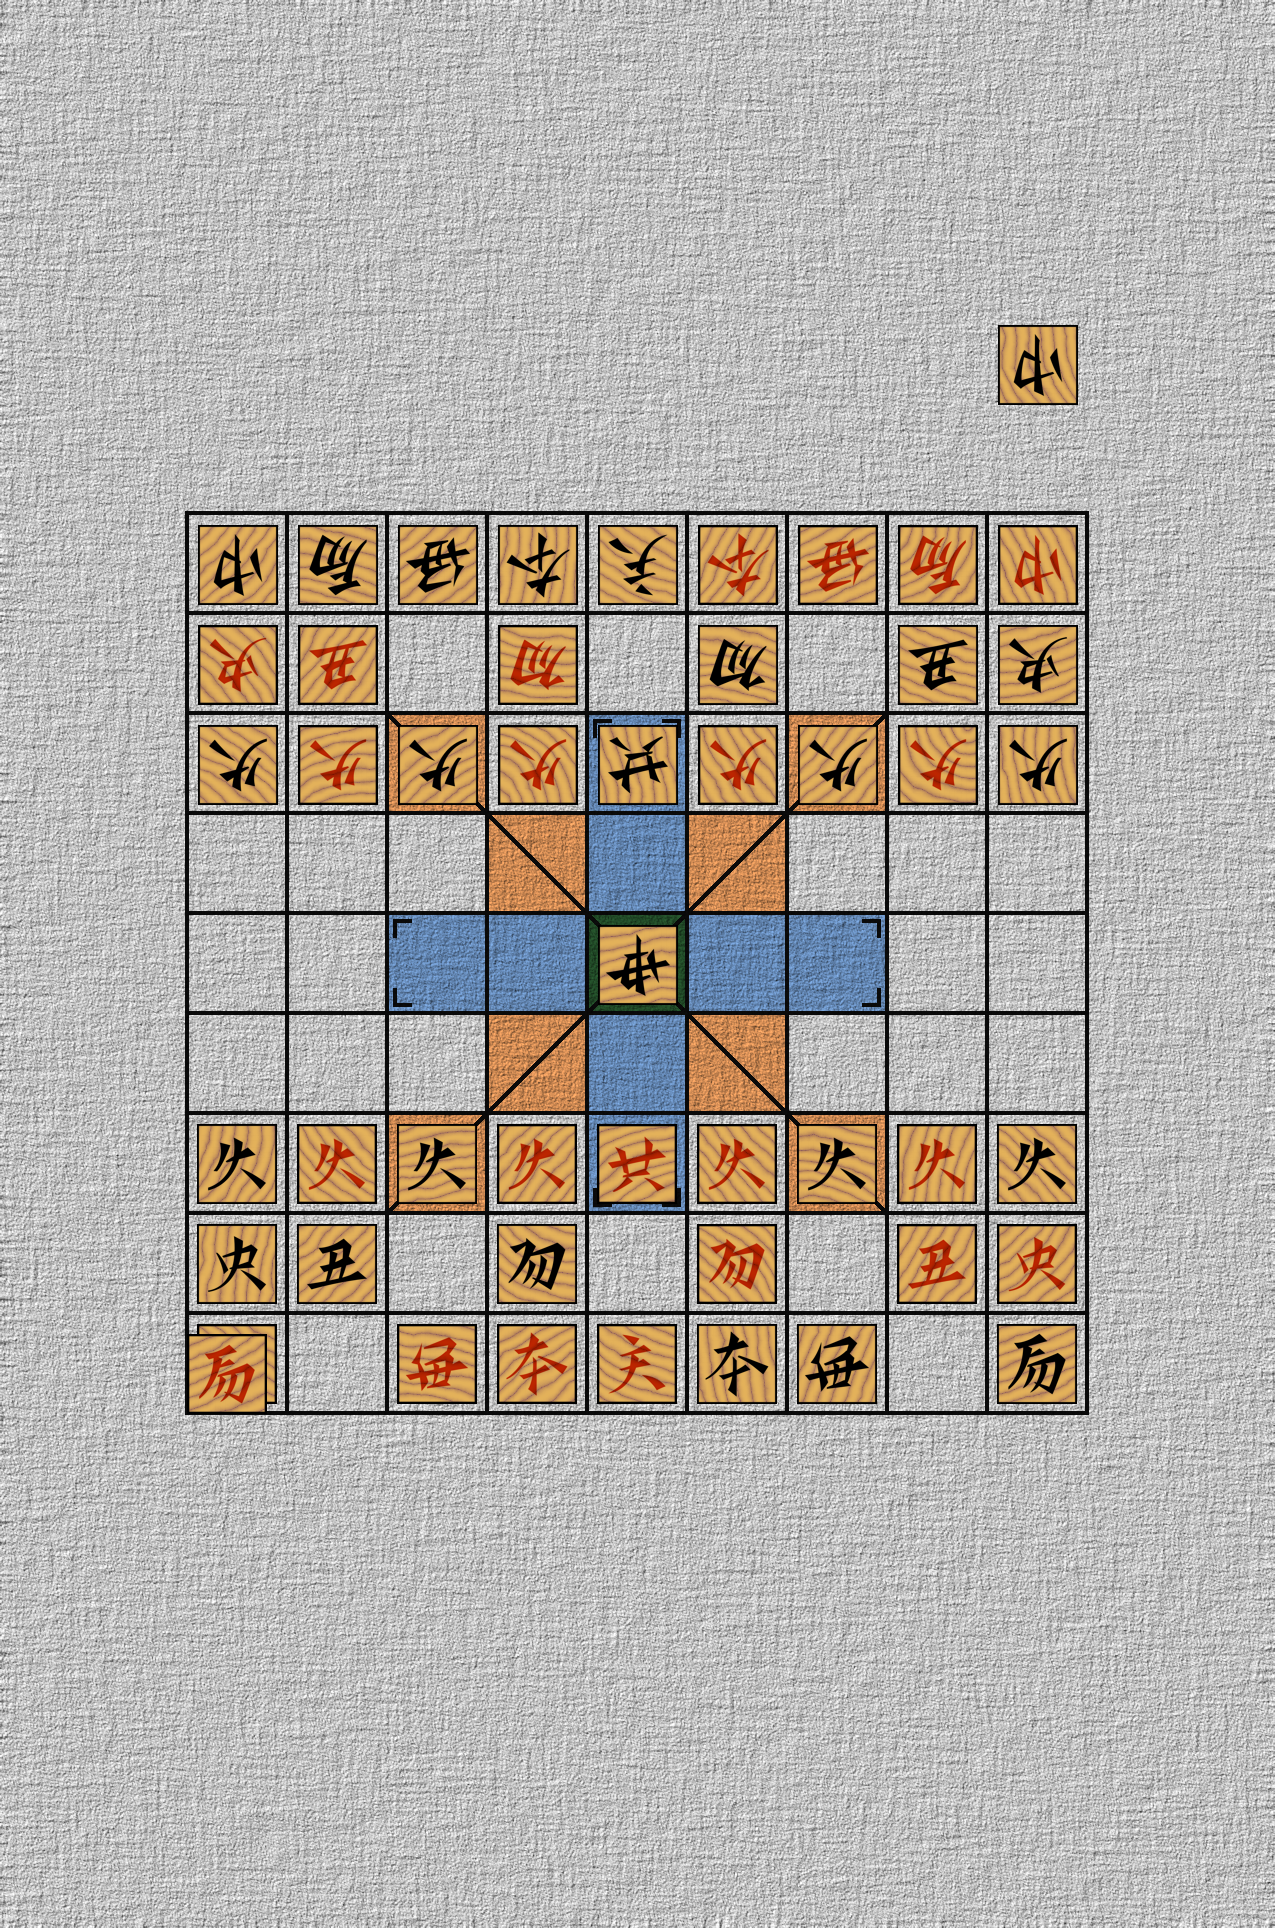
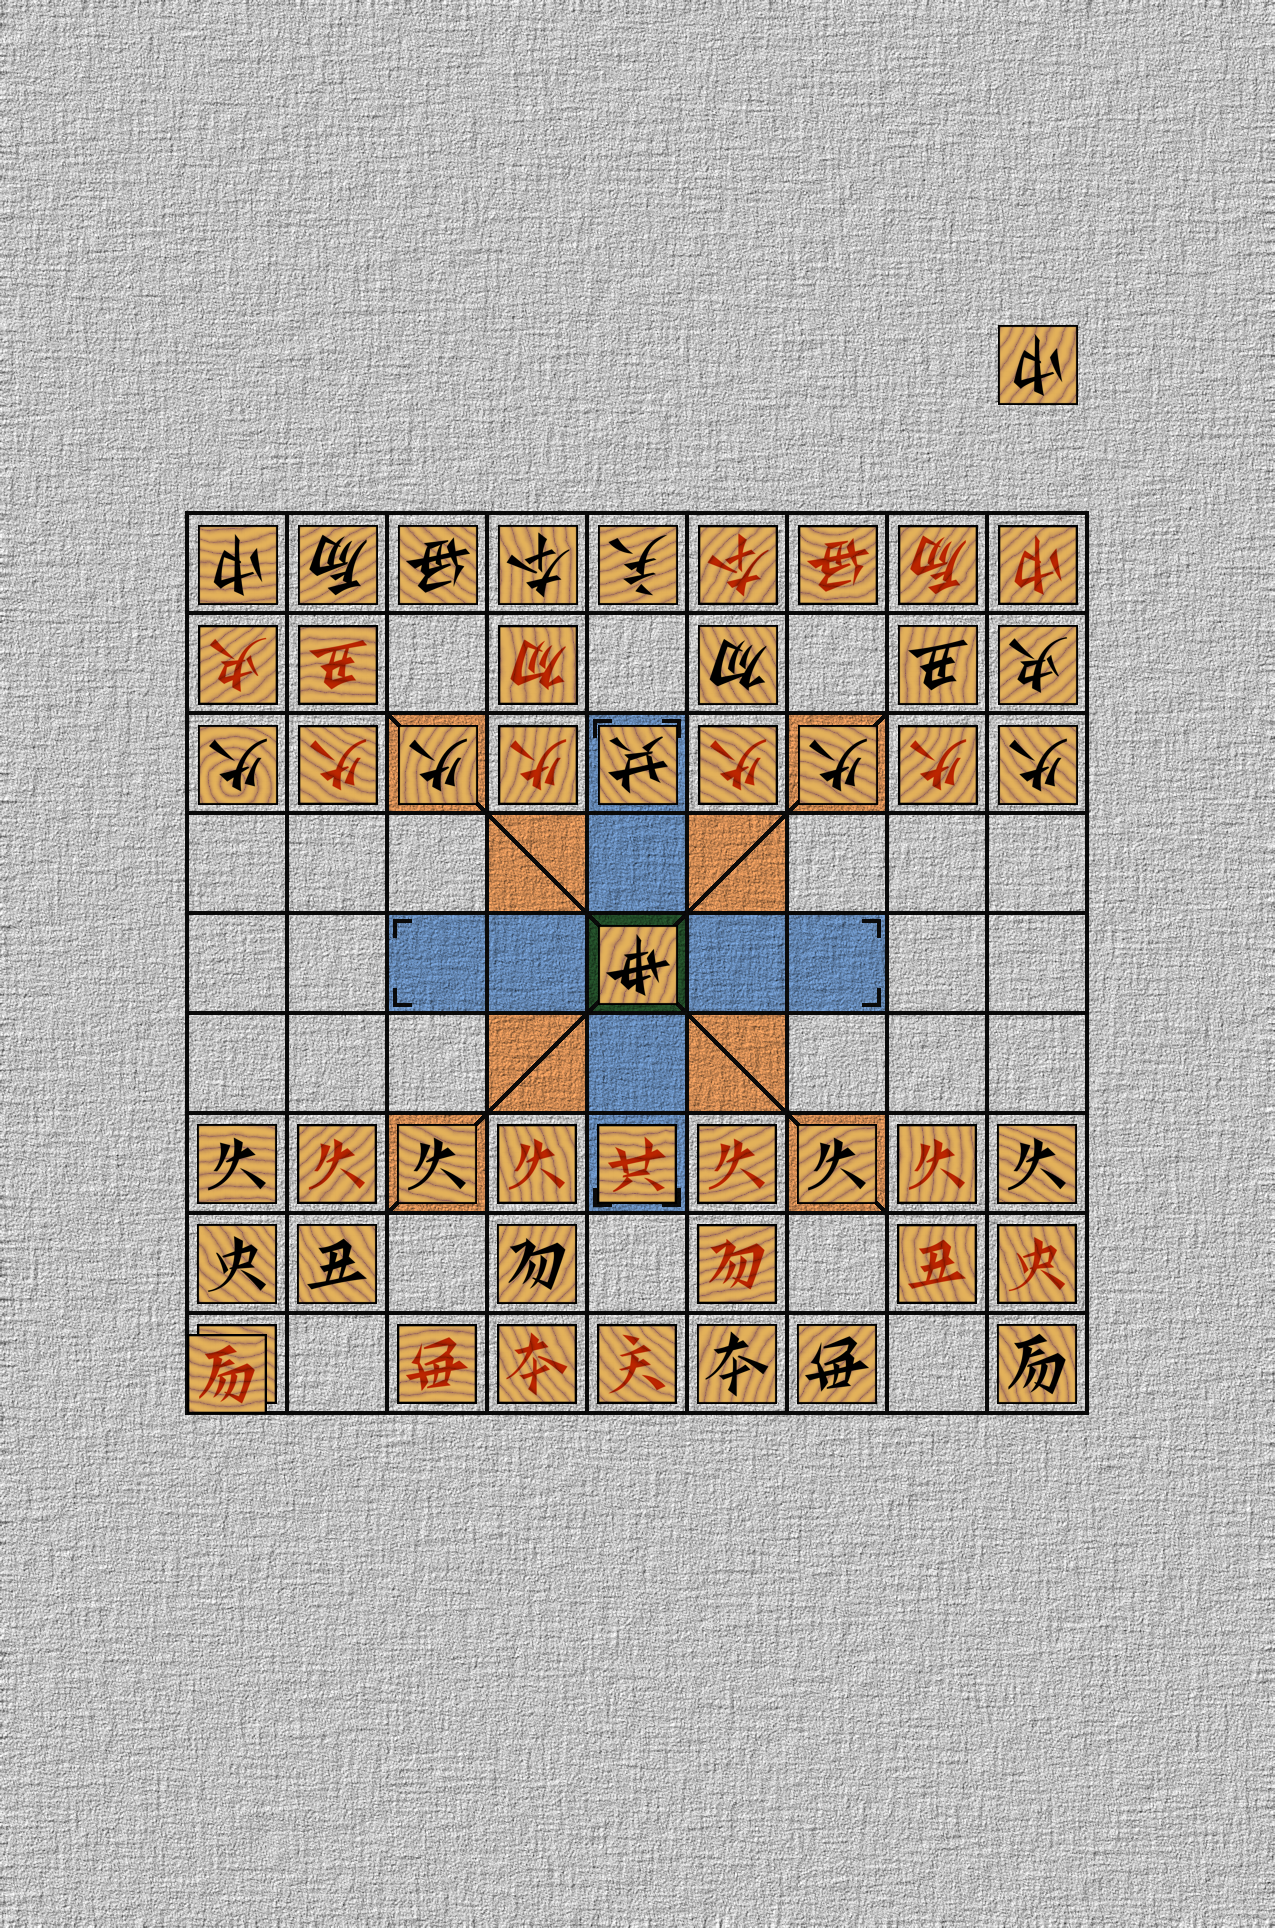
implement relocate_stepping, descend_from_stepping

diff --git a/src/field/mod.rs b/src/field/mod.rs
@@ -179,6 +179,7 @@ pub enum OperationError {
     SteppingOnEmptySquare,
     Tam2ToHop1Zuo1,
     TwoPiecesOnFlight,
+    NoPieceOnFlight,
 }
 
 fn get_horiz_offset_from_coord(coord: Coord, down_side: Side) -> i32 {
@@ -271,6 +272,35 @@ impl Field {
             .field
             .remove(&from)
             .ok_or(OperationError::MovingFromEmptySquare)?;
+
+        self.field.insert(to, piece);
+
+        self.debug_assert_49_piece();
+        Ok(())
+    }
+
+    pub fn relocate_stepping(&mut self, to: Coord) -> Result<(), OperationError> {
+        self.debug_assert_49_piece();
+        let (_coord, piece) = self
+            .floating
+            .take()
+            .ok_or(OperationError::NoPieceOnFlight)?;
+
+        self.floating = Some((to, piece));
+        self.debug_assert_49_piece();
+        Ok(())
+    }
+
+    pub fn descend_from_stepping(&mut self, to: Coord) -> Result<(), OperationError> {
+        self.debug_assert_49_piece();
+        let (_coord, piece) = self
+            .floating
+            .take()
+            .ok_or(OperationError::NoPieceOnFlight)?;
+
+        if self.field.contains_key(&to) {
+            return Err(OperationError::MovingToNonEmptySquare);
+        }
 
         self.field.insert(to, piece);
 

diff --git a/src/main.rs b/src/main.rs
@@ -28,5 +28,17 @@ fn main() -> Result<(), rand_distr::NormalError> {
     field.render(field::Side::IASide).save("a4.png").unwrap();
     field.render(field::Side::ASide).save("b4.png").unwrap();
 
+    field
+        .relocate_stepping((Row::O, Column::Z))
+        .unwrap();
+
+    field.render(field::Side::IASide).save("a5.png").unwrap();
+    field.render(field::Side::ASide).save("b5.png").unwrap();
+
+    field.descend_from_stepping((Row::O, Column::C)).unwrap();
+
+    field.render(field::Side::IASide).save("a6.png").unwrap();
+    field.render(field::Side::ASide).save("b6.png").unwrap();
+
     Ok(())
 }
